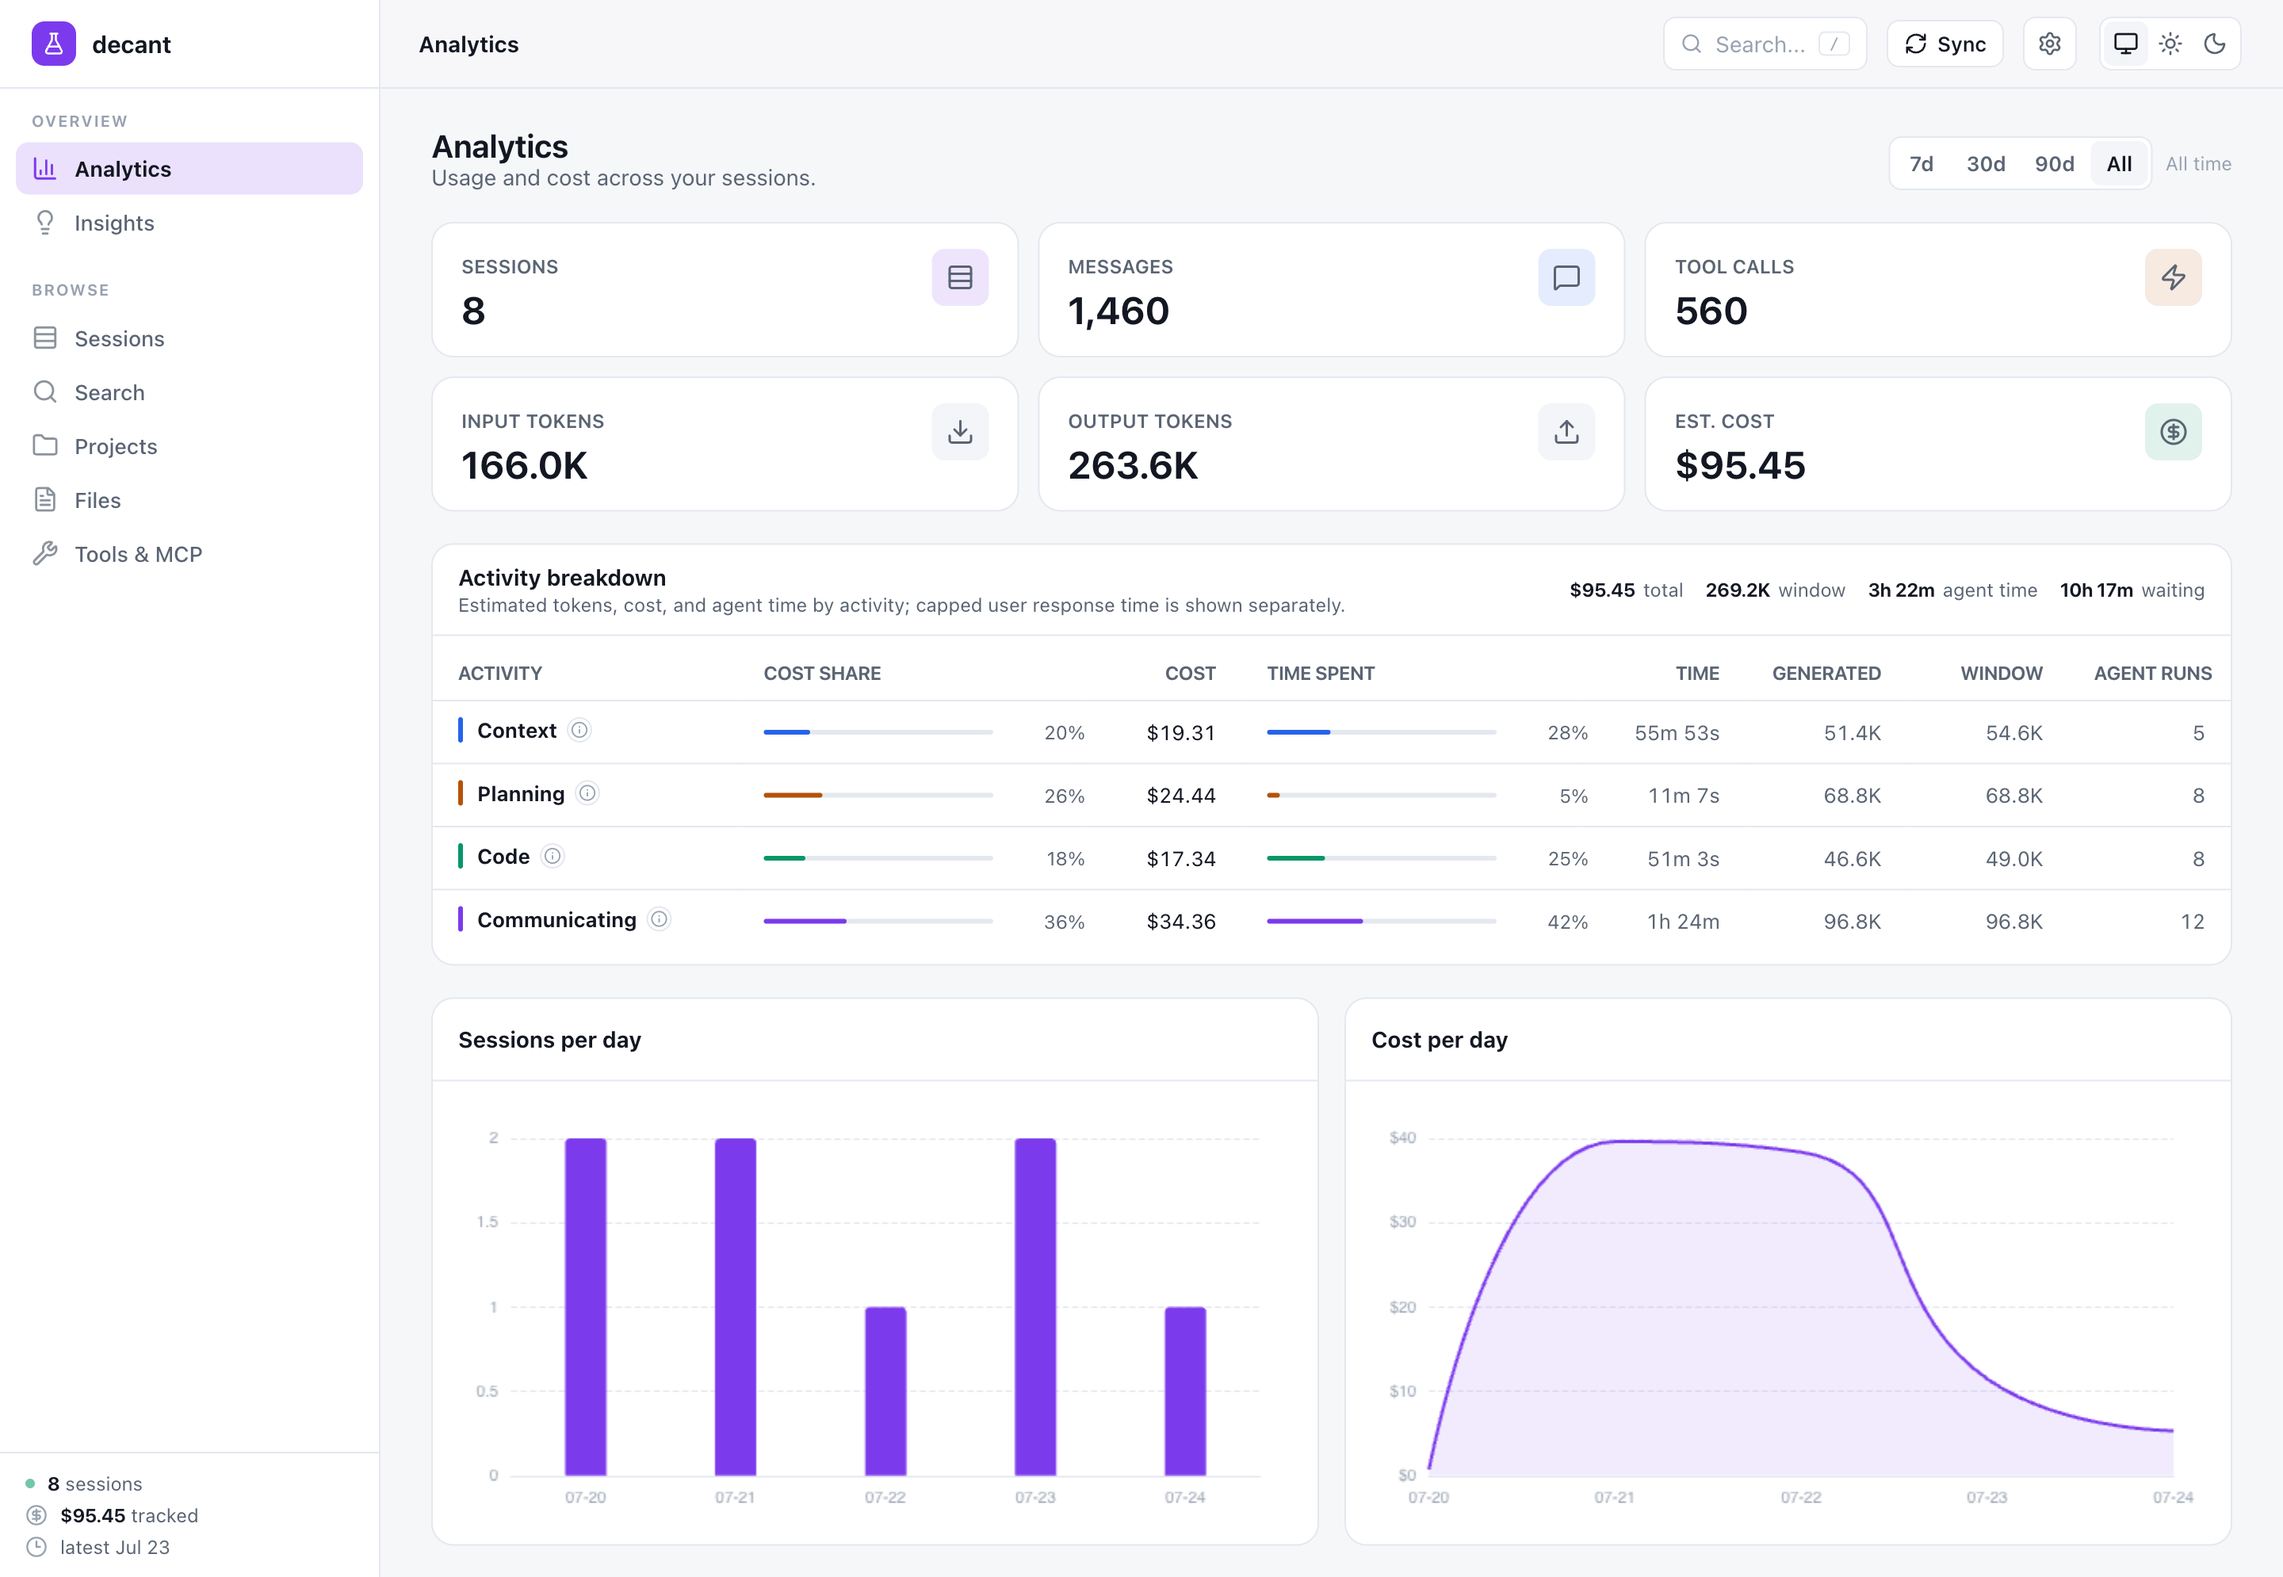
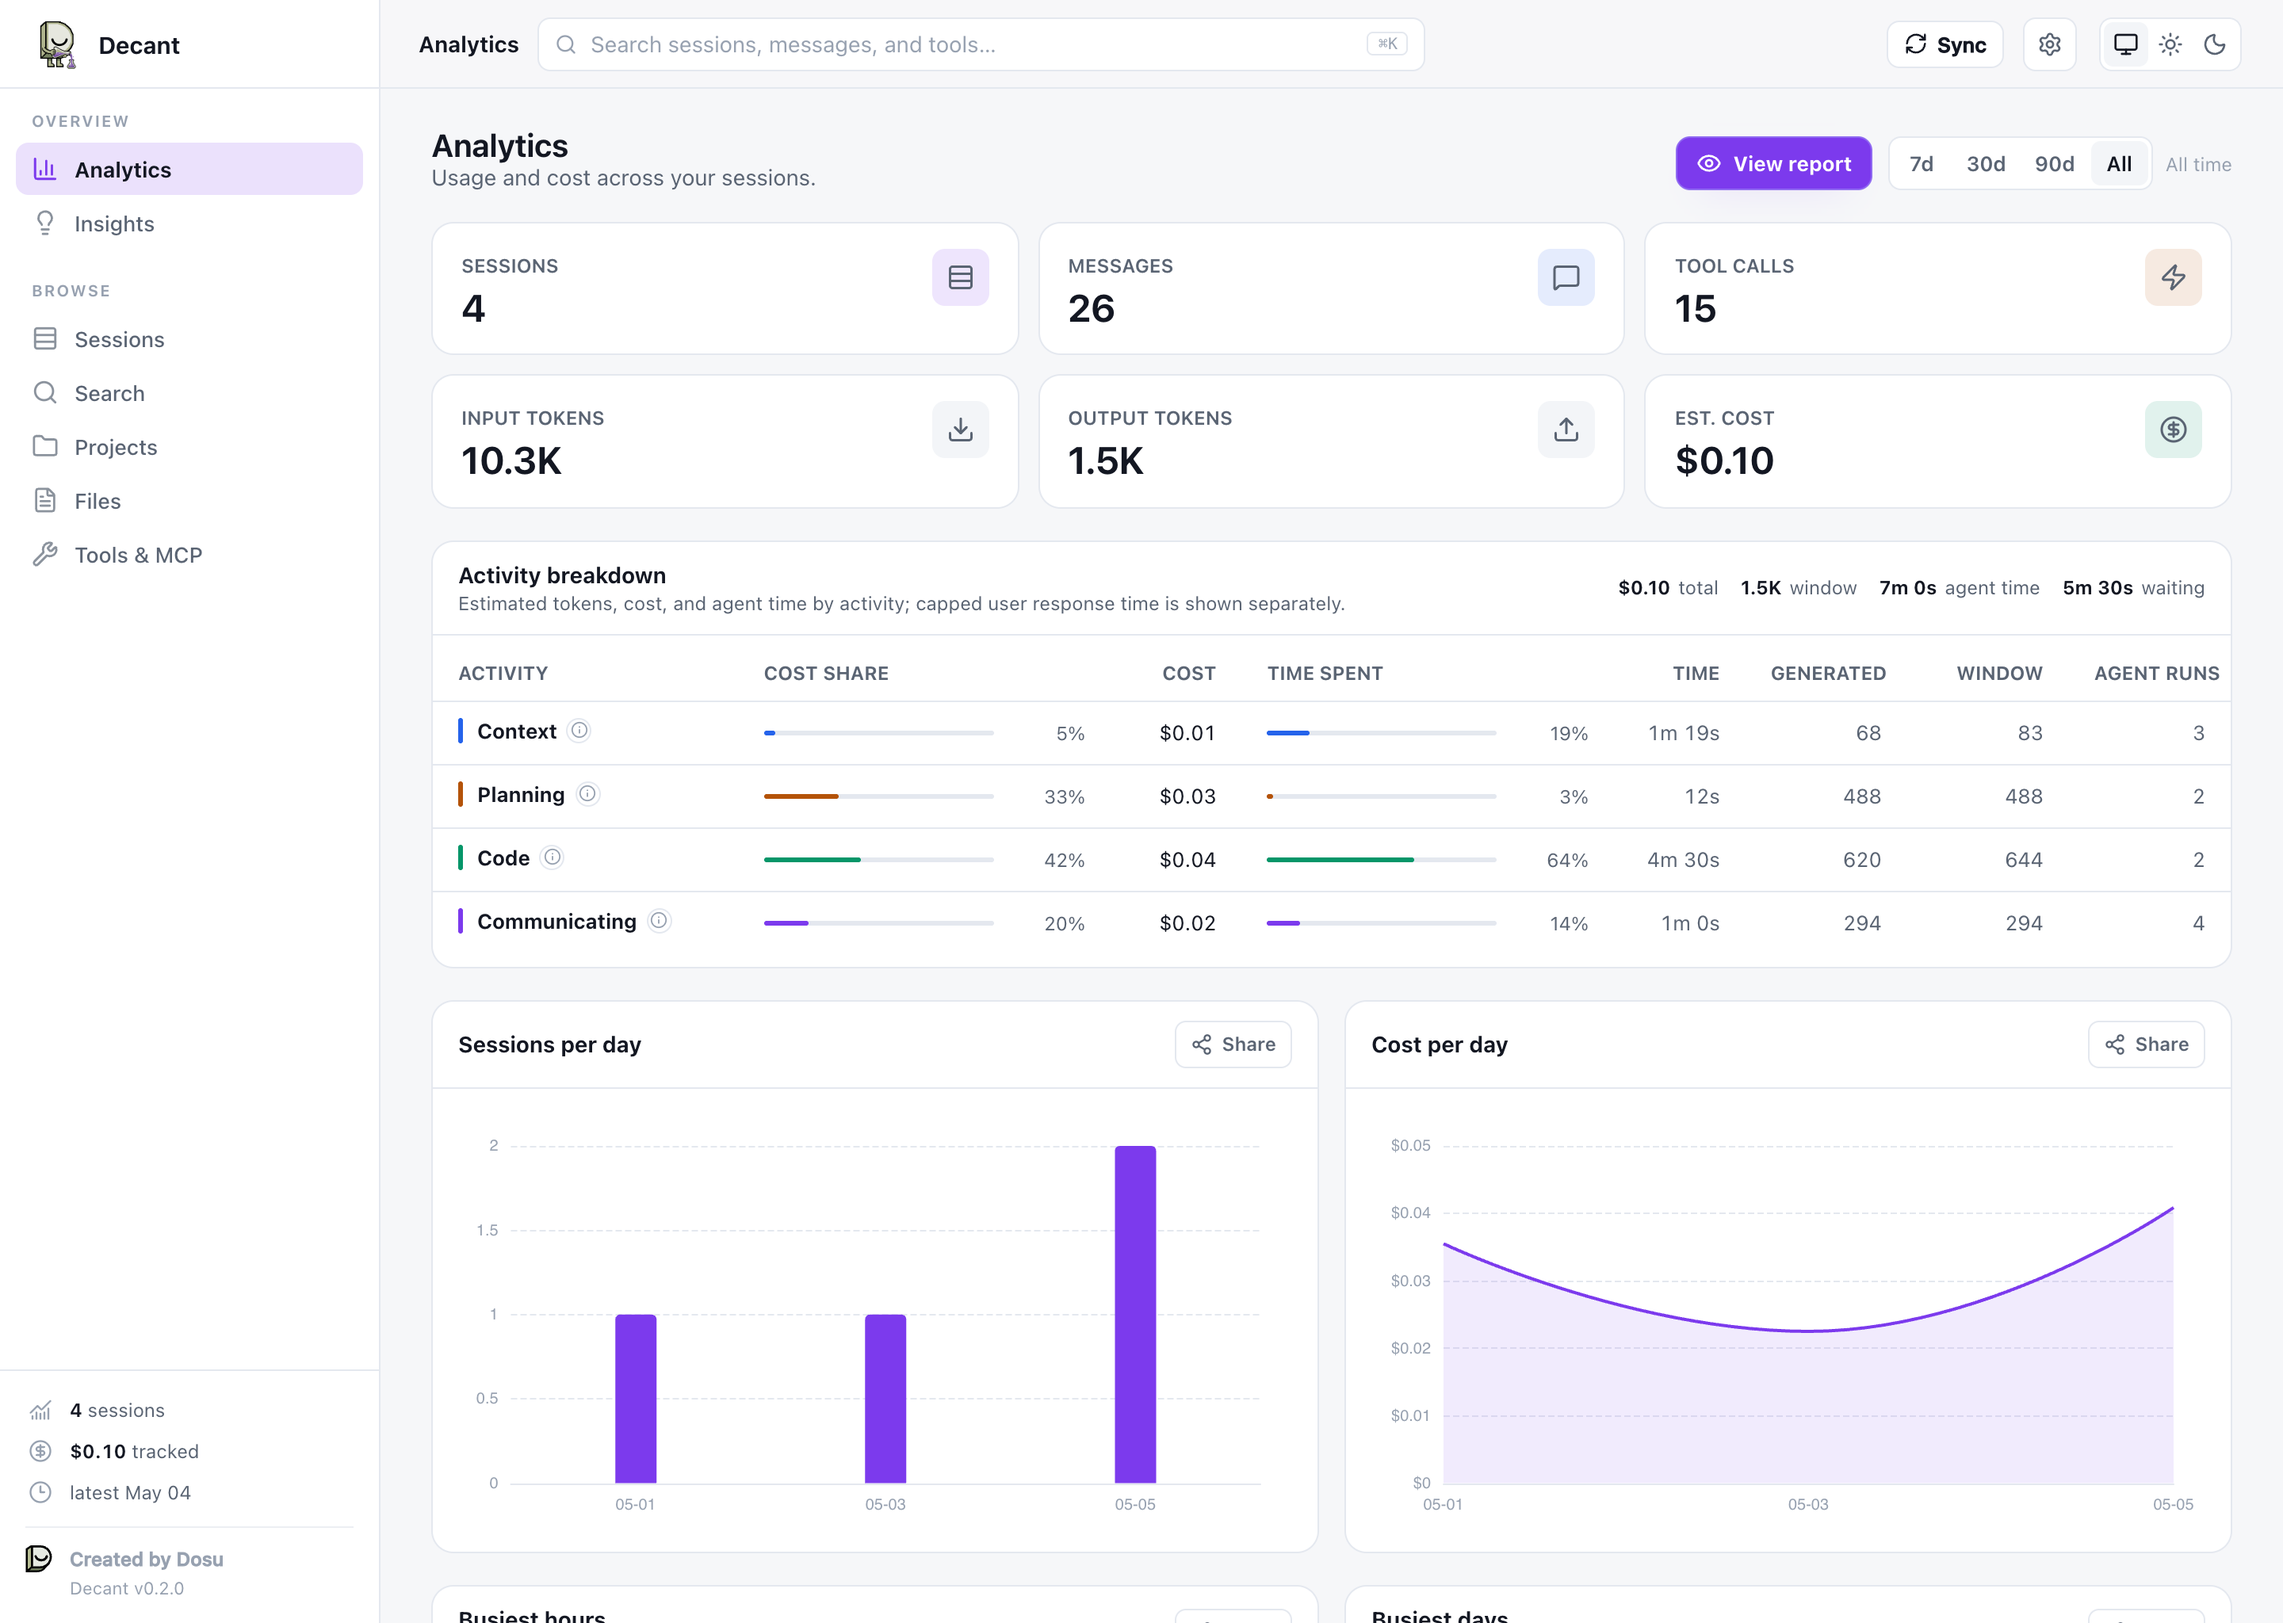
docs: refresh README for v0.2.0 (#81)
* docs: refresh README for v0.2.0

* fix(release): let Homebrew infer formula version

diff --git a/test/distribution.test.ts b/test/distribution.test.ts
@@ -100,6 +100,16 @@ describe("distribution helpers", () => {
     ]);
   });
 
+  test("lets Homebrew infer the formula version from release URLs", () => {
+    const template = readFileSync(
+      join(import.meta.dir, "..", "packaging", "homebrew", "decant.rb.template"),
+      "utf8",
+    );
+
+    expect(template).toContain("https://github.com/dosu-ai/decant/releases/download/v__VERSION__/");
+    expect(template).not.toMatch(/^\s*version\s+/m);
+  });
+
   test("stamps staged npm packages to one release version", async () => {
     const root = mkdtempSync(join(tmpdir(), "decant-npm-stage-test-"));
     try {

diff --git a/README.md b/README.md
@@ -17,10 +17,9 @@ both formats into one WAL + FTS5 SQLite archive, and gives you full-text search,
 token economics, context-window occupancy, and phase breakdowns from a CLI or a
 local web UI. Your transcripts never leave your machine.
 
-![Decant serve showing the analytics view: session, message, tool-call, token,
-and cost totals; an activity breakdown splitting cost and time across context,
-planning, code, and communicating; and sessions-per-day and cost-per-day charts.
-Rendered from synthetic demo data.](docs/assets/decant-serve.png)
+![The current Decant Analytics UI showing the command palette, report and share
+controls, session and token totals, activity economics, and daily charts.
+Rendered from the repository's synthetic fixtures.](docs/assets/decant-serve.png)
 
 ## Features
 
@@ -37,27 +36,30 @@ Rendered from synthetic demo data.](docs/assets/decant-serve.png)
 
 ## Quick Start
 
-Run from source. This works today, before any package or image is published:
+Run Decant with `npx`—no Bun install or global package required:
 
 ```bash
-bun run dev
+npx @dosu/decant@latest serve
 ```
 
-Requires Bun 1.3+. `bun run dev` performs a frozen dependency install, starts
-`decant serve`, runs the startup sync, and keeps watching your source logs. The
-UI runs at `http://127.0.0.1:3000`.
+Open `http://127.0.0.1:3000`. The first run syncs the Claude Code and Codex logs
+already on your machine, then keeps watching them for changes. `npx` downloads
+the launcher and matching native binary for this run without installing a
+persistent `decant` command.
 
-Everything below is **available from v0.1.0**, once the Release workflow has
-published a version. See [Install Matrix](#install-matrix) for the full set of
-options and when to pick which.
-
-Run it with npm, no Bun install needed:
+Use the same package for one-off CLI commands:
 
 ```bash
-npx @dosu/decant sync
-npx @dosu/decant ls
-npx @dosu/decant search "auth bug"
-npx @dosu/decant serve
+npx @dosu/decant@latest sync
+npx @dosu/decant@latest ls
+npx @dosu/decant@latest search "auth bug"
+```
+
+For a persistent installation:
+
+```bash
+npm install --global @dosu/decant@latest
+decant serve
 ```
 
 Install it with Homebrew:
@@ -84,6 +86,11 @@ docker run --rm \
   -v "$HOME/.codex:/sources/codex:ro" \
   ghcr.io/dosu-ai/decant:latest
 ```
+
+To run from source instead, install Bun 1.3+ and use `bun run dev`. It performs
+a frozen dependency install, starts `decant serve`, runs the startup sync, and
+keeps watching your source logs. See [Install Matrix](#install-matrix) for the
+full set of options.
 
 Keep the `127.0.0.1:` host prefix on the Docker port publish. Publishing as
 `-p 3000:3000` exposes the archive port on every host interface. The container
@@ -232,8 +239,8 @@ details and per-artifact verification.
 1. **npx / npm** — zero persistent install, or a global one:
 
    ```bash
-   npx @dosu/decant sync
-   npm i -g @dosu/decant   # persistent install, then just `decant`
+   npx @dosu/decant@latest serve
+   npm install --global @dosu/decant@latest   # persistent, then use `decant`
    ```
 
 2. **Homebrew** — via the `dosu-ai/dosu` tap:
